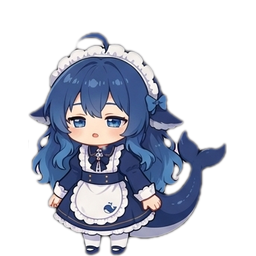
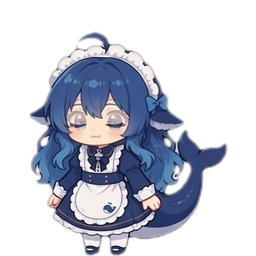
feat: smooth sprite animations with in-between frames
- idle/working 9 frames, sleep 6, think 4 (crossfaded or breathing)
- keep error/celebrate keyframes snappy (crossfade ghosts badly)
- raise the sprite loader limit and tune per-state intervals
- log the loaded frame counts

diff --git a/README.md b/README.md
@@ -15,7 +15,7 @@
 ## 功能
 
 - **实时进度**：直接读取 DSH 会话日志（分帧 zstd + JSONL），显示任务标题、`todo_write` 进度、当前工具/步骤、已用时间、目标轮次。
-- **状态动画**：思考、工作、待命、打瞌睡、出错、完成都有对应的 Q 版帧动画。
+- **状态动画**：待命 9 帧、工作 9 帧、打瞌睡 6 帧、思考 4 帧（关键帧之间补了过渡帧）；出错/完成保留干脆的关键帧，完成时另有 WPF 跳跃与星光。
 - **完成提醒**：角色庆祝 + 星光 + 绿勾 + 提示音 + Windows 通知。
 - **多会话**：右键菜单列出最近会话（`●` 运行中 / `○` 已结束），可固定显示某一个；默认跟随最近任务。
 - **自定义大小**：70%–140%，角色、气泡、特效一起缩放，右下角锚定，记住选择。
